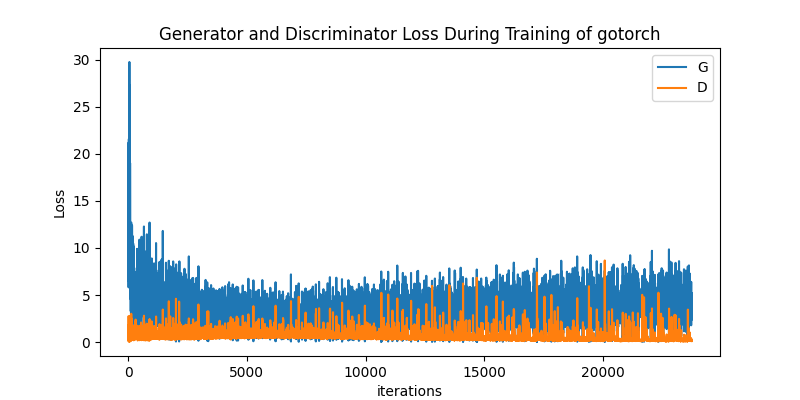
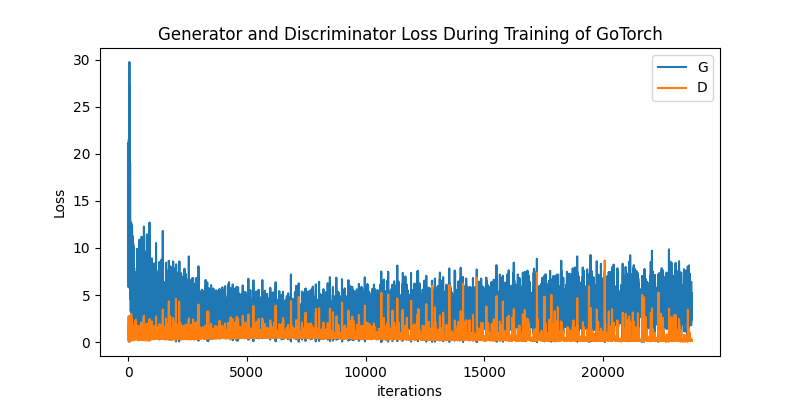
Update dcgan doc (#296)
* update dcgan doc

* update log

* update

* update

* update

* format code

Changed region(s): [[0.1875, 0.06, 0.8438, 0.12]]

diff --git a/example/dcgan/visualize_pickle.py b/example/dcgan/visualize_pickle.py
@@ -24,6 +24,7 @@ def get_ckpt_files(prefix):
 
 
 def load_ckpt_files(prefix, save_image):
+    images_per_ckpt = 64
     files = get_ckpt_files(prefix)
     img_list = []
     for file in files:
@@ -38,7 +39,9 @@ def load_ckpt_files(prefix, save_image):
             directory = os.path.splitext(file)[0]
             if not os.path.exists(directory):
                 os.mkdir(directory)
-            images = [images[i].transpose(1, 2, 0) for i in range(64)]
+            images = [
+                images[i].transpose(1, 2, 0) for i in range(images_per_ckpt)
+            ]
             for i, image in enumerate(images):
                 vutils.save_image(image,
                                   directory + '/' + str(i) + '.png',
@@ -64,7 +67,7 @@ if __name__ == "__main__":
             for i in range(num):
                 img = torch.cat((gotorch_img_list[i], torch.ones(
                     3, h, w), pytorch_img_list[i]),
-                    dim=2)
+                                dim=2)
                 img_list.append(img)
 
             fig = plt.figure(figsize=(16, 8))
@@ -88,3 +91,6 @@ if __name__ == "__main__":
         writer = animation.writers['ffmpeg']
         writer = writer(fps=4, metadata=dict(artist='Me'), bitrate=1800)
         ani.save("dcgan.mp4", writer)
+        # save the last image
+        plt.imshow(np.transpose(img_list[-1], (1, 2, 0)))
+        plt.savefig("dcgan.png")

diff --git a/example/dcgan/plot_loss.py b/example/dcgan/plot_loss.py
@@ -10,11 +10,11 @@ def get_loss(prefix):
     step = []
     loss_d = []
     loss_g = []
-    with open(prefix + '-dcgan.log') as f:
+    with open(prefix.lower() + '-dcgan.log') as f:
         lines = f.readlines()
         for line in lines:
             if 'Step' in line:
-                fields = line.split('|')
+                fields = line.split('\t')
                 step.append(int(fields[2].split(':')[-1]))
                 loss_d.append(float(fields[3].split(':')[-1]))
                 loss_g.append(float(fields[4].split(':')[-1]))
@@ -37,7 +37,7 @@ if __name__ == "__main__":
     args = parser.parse_args()
 
     if args.load_pytorch:
-        plot_loss("pytorch")
+        plot_loss("PyTorch")
 
     if args.load_gotorch:
-        plot_loss("gotorch")
+        plot_loss("GoTorch")

diff --git a/example/dcgan/dcgan.py b/example/dcgan/dcgan.py
@@ -175,8 +175,9 @@ if __name__ == "__main__":
             errG.backward()
             optimizerG.step()
 
-            logger.info('| %d/%d | Step: %d | Loss_D: %.4f | Loss_G: %.4f |' %
-                        (epoch, num_epochs, iters, errD.item(), errG.item()))
+            logger.info(
+                '\t Epoch: %04d/%05d \t Step: %05d \t Loss_D: %2.4f \t Loss_G: %2.4f'
+                % (epoch, num_epochs, iters, errD.item(), errG.item()))
             if iters % checkpoint_step == 0:
                 with torch.no_grad():
                     fake = netG(fixed_noise).detach()

diff --git a/example/dcgan/dcgan.go b/example/dcgan/dcgan.go
@@ -180,7 +180,7 @@ func main() {
 			errG.Backward()
 			optimizerG.Step()
 
-			log.Printf("\t %04d/%05d \t Step: %05d \t Loss_D: %2.4f \t Loss_G: %2.4f \n",
+			log.Printf("\t Epoch: %04d/%05d \t Step: %05d \t Loss_D: %2.4f \t Loss_G: %2.4f \n",
 				epoch, epochs, i, errD, errG.Item())
 			if i%checkpointStep == 0 {
 				samples := netG.Forward(fixedNoise).(torch.Tensor)

diff --git a/example/dcgan/README.md b/example/dcgan/README.md
@@ -4,10 +4,11 @@ In this demo, we train a DCGAN using a huamn face dataset,
 [CelebA dataset](http://mmlab.ie.cuhk.edu.hk/projects/CelebA.html), and use the
 train model to synthesize human faces.
 
-The following animation shows fake faces synthesized using the GoTorch version
+The following shows fake faces synthesized using the GoTorch version
 (left) and the PyTorch counterpart (right).
+You can watch the detailed animation [here](http://cdn.sqlflow.tech/dcgan.mp4).
 
-![dcgan](http://cdn.sqlflow.tech/dcgan-20200904.gif)
+![dcgan](dcgan.png)
 
 Training loss of GoTorch:
 
@@ -56,7 +57,7 @@ The `dcgan` binary will be installed at `$GOPATH/bin` directory.
 The following command runs the sample program.
 
 ```bash
-$GOPATH/bin/dcgan -dataroot=$DATAROOT/train.tgz
+$GOPATH/bin/dcgan -data=$SOMEPATH/train.tgz 2>&1 | tee gotorch-dcgan.log
 ```
 
 The training program periodically generates image samples and saves to pickle
